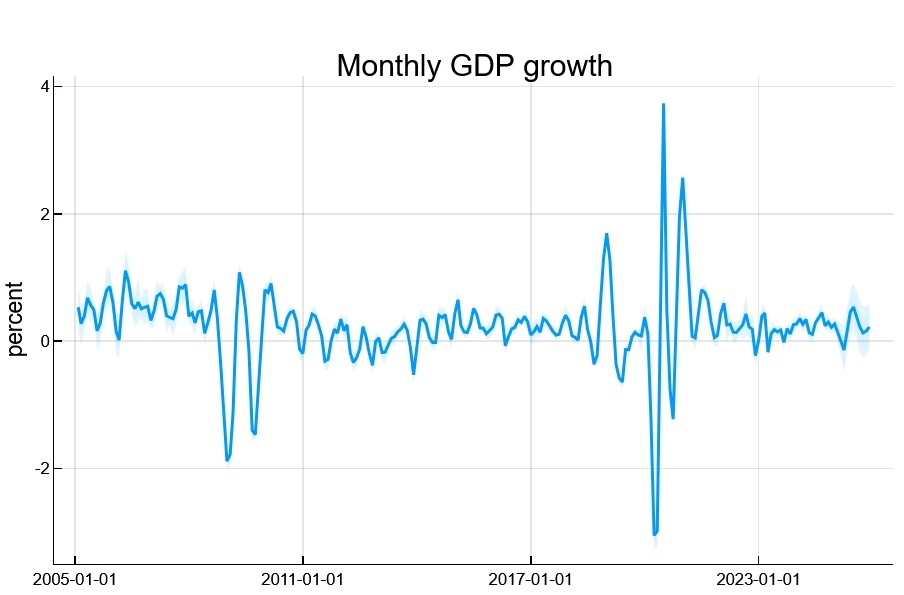
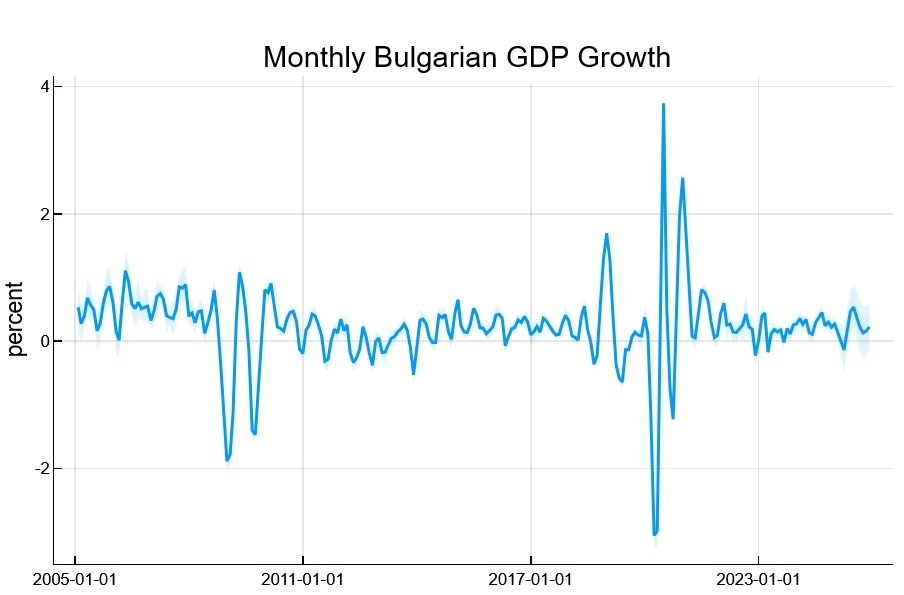
upd mfvar estimate

Changed region(s): [[0.2788, 0.0605, 0.7434, 0.1513]]

diff --git a/content/post/2025_07_03 BG MF-VAR/index.md b/content/post/2025_07_03 BG MF-VAR/index.md
@@ -16,14 +16,14 @@ I've always wanted to implement those models for Bulgaria, and with joining the 
 
 I have recently implemented the mixed-frequency method of [Joshua Chan, Aubrey Poon, and Dan Zhu (2023), High-dimensional conditionally Gaussian state space models with missing data](https://www.sciencedirect.com/science/article/pii/S0304407623001628?via%3Dihub) in Julia and Matlab with a hierarchical Minnesota based prior with and without stochastic volatility. 
 
-I am presenting here the homoskedastic version, estiamted with growth rates:
+I am presenting here the homoskedastic version, estimated in growth rates:
 ![Monthly estimates for Bulgarian GDP in growth rates](BGMFVAR_250703.svg "Monthly estimates for Bulgarian GDP in growth rates")
 
 
 
 ## Data
 
-The data in the model is in quarterly growth rates and starts in 2005.
+Here is a snapshot of the variables in the model, which all start in 2005:
 
 | **Variable**      | **Abbreviation** | **Transformation** | **Source** |
 |----------------------------|---------------------------|-----------------------------|---------------------|
@@ -43,10 +43,7 @@ The data in the model is in quarterly growth rates and starts in 2005.
 | GDP                        |                           | SA, in growth rates         | Eurostat            |
 
 
-The currently available high frequency indicators for Q2 in the beginning of July are mostly surveys, financial data and prices. From the hard indicators we have industrial prodcution, construction, and retail for April, as well as tourist data for April and May.
-
-Here is how the "ragged edge" of the data looks like
-
+The currently available high frequency indicators for Q2 in the beginning of July are mostly surveys, financial data and prices. From the hard indicators we have industrial prodcution, construction, and retail for April, as well as tourist data for April and May. This is how the currently available data ("ragged edge") looks like:
 
 {{< table path="dataM_BG_test.csv" header="true" caption="Ragged edge for the BG MF-VAR model (untransformed)" >}}
 
@@ -55,7 +52,7 @@ For the second quarter, the nowcast estimate suggests a slowdown of Bulgarian GD
 ![Quarterly growth rate estimates](QoQ.png "caption")
 
 
-I plan to publish regularly these nowcasts, as well as compile a paper with the model and comparison of the out-of-sample forecast performance of the model for various speicifications (with and without stochastic volatilty). If you want, you can download the monthly series ([xlsx](BGMFVAR_250703.xlsx), [csv](BGMFVAR_250703.csv)) and if you are interested, feel free to write me an [email](mailto:boris.blagov@rwi-essen.de).
+I plan to publish regularly these nowcasts, as well as compile a paper with the model and comparison of the out-of-sample forecast performance of the model for various speicifications (with and without stochastic volatilty). You can download the monthly GDP series with 68% and 95% quantiles ([xlsx](BGMFVAR_250703.xlsx), [csv](BGMFVAR_250703.csv)) and if you are interested in other details, do get in touch via [email](mailto:boris.blagov@rwi-essen.de).
 
 
 
